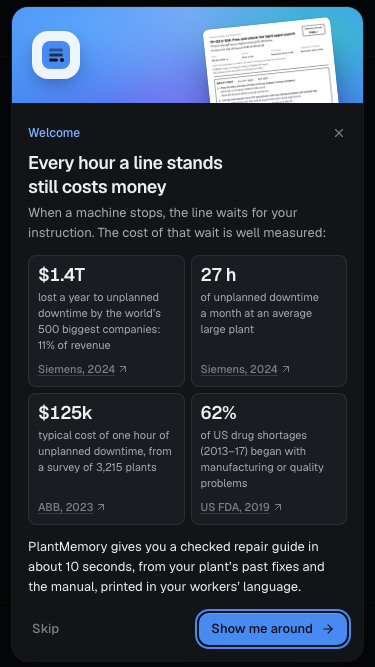
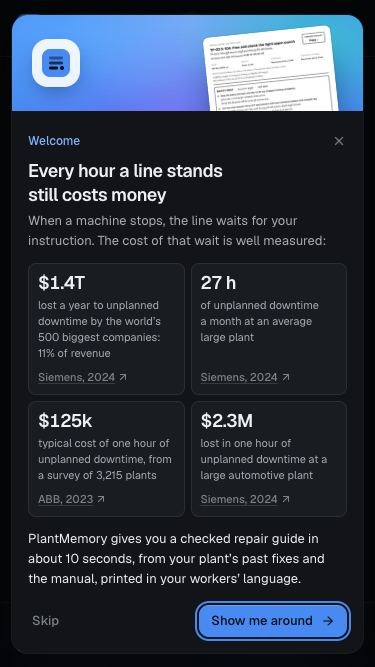
Replace the drug-shortage figure on the welcome card with one for any plant
The 62% of US drug shortages figure only spoke to pharma. The card now shows
Siemens' $2.3M lost in one hour of unplanned downtime at a large automotive
plant (True Cost of Downtime 2024, p. 2), checked in the original report.
Retakes the welcome card screenshots.

Changed region(s): [[0.0293, 0.0, 0.968, 0.5697], [0.0587, 0.5997, 0.9387, 0.9895], [0.528, 0.5397, 0.792, 0.5697]]

diff --git a/web/components/onboarding/tour.tsx b/web/components/onboarding/tour.tsx
@@ -50,7 +50,7 @@ type Step = {
   hero?: boolean;
 };
 
-// Every figure is quoted from the source it links to (checked 14 Oct 2026).
+// Every figure is quoted from the source it links to (checked 17 Oct 2026).
 const SIEMENS = "https://assets.new.siemens.com/siemens/assets/api/uuid:1b43afb5-2d07-47f7-9eb7-893fe7d0bc59/TCOD-2024_original.pdf";
 const EVIDENCE = [
   {
@@ -72,10 +72,10 @@ const EVIDENCE = [
     href: "https://new.abb.com/news/detail/107660/abb-survey-reveals-unplanned-downtime-costs-125000-per-hour",
   },
   {
-    value: "62%",
-    label: "of US drug shortages (2013–17) began with manufacturing or quality problems",
-    source: "US FDA, 2019",
-    href: "https://www.fda.gov/drugs/drug-shortages/report-drug-shortages-root-causes-and-potential-solutions",
+    value: "$2.3M",
+    label: "lost in one hour of unplanned downtime at a large automotive plant",
+    source: "Siemens, 2024",
+    href: SIEMENS,
   },
 ];
 
@@ -109,7 +109,7 @@ let volumeShown = false;
 const reducedMotion = () =>
   typeof window !== "undefined" && window.matchMedia("(prefers-reduced-motion: reduce)").matches;
 
-/** A figure such as "$1.4T" or "62%" that counts up from zero, once, when it appears. */
+/** A figure such as "$1.4T" or "27 h" that counts up from zero, once, when it appears. */
 function CountUp({ value, delay = 0, className }: { value: string; delay?: number; className?: string }) {
   const match = value.match(/^([^\d]*)([\d.]+)(.*)$/);
   const target = match ? Number(match[2]) : 0;

diff --git a/docs/TESTING.md b/docs/TESTING.md
@@ -26,8 +26,7 @@ make run                      # open http://localhost:8473
 **The tour.** On your first visit a tour starts on the Breakdown page. The screen dims,
 the real control stays lit, and a small popup beside it says what it does, with **Next**
 and **Skip**. The welcome card opens with what downtime costs, each figure linked to its source
-(Siemens' *True Cost of Downtime 2024*, ABB's 2023 survey of 3,215 plants, and the US
-FDA's 2019 drug shortages report). Next it points at the **plant status bar** (which
+(Siemens' *True Cost of Downtime 2024* and ABB's 2023 survey of 3,215 plants). Next it points at the **plant status bar** (which
 machines are running or stopped) and the four steps of the job, then follows the whole
 job, and you do the steps yourself:
 
